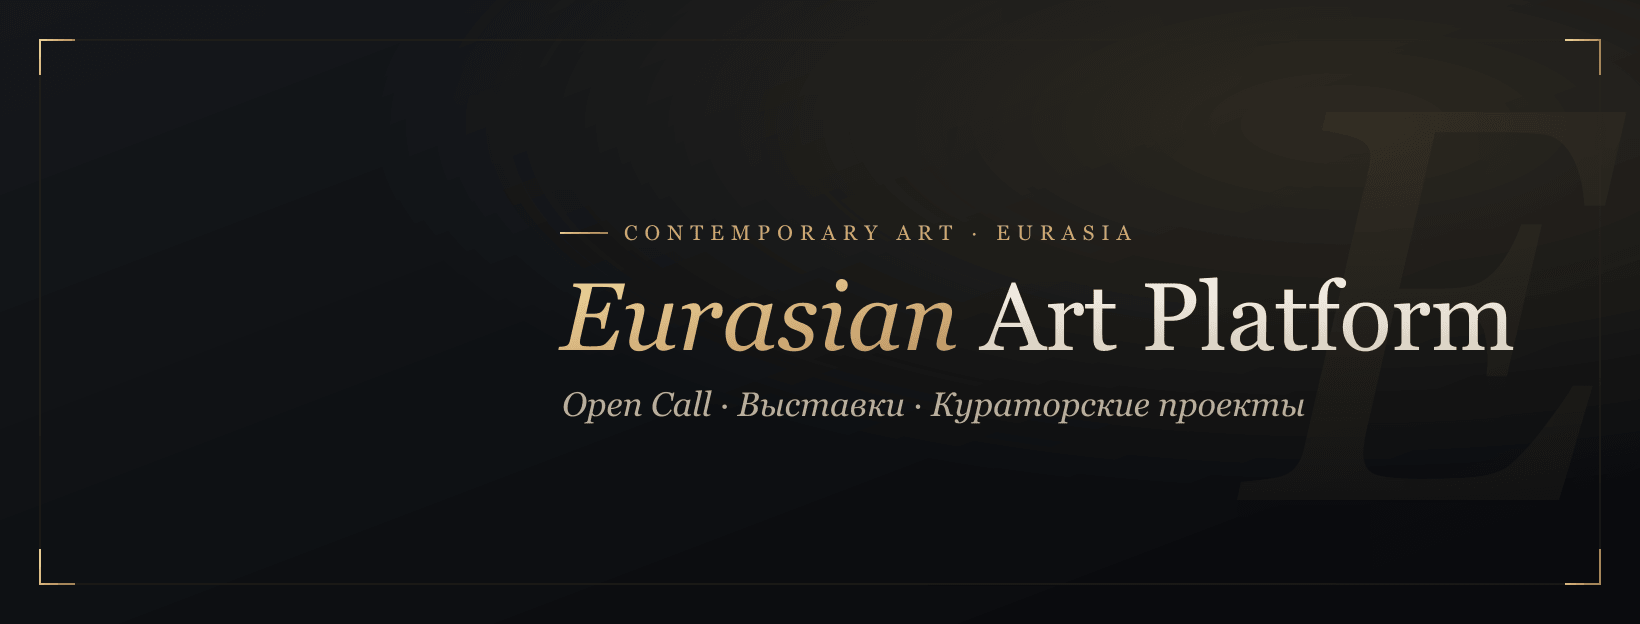
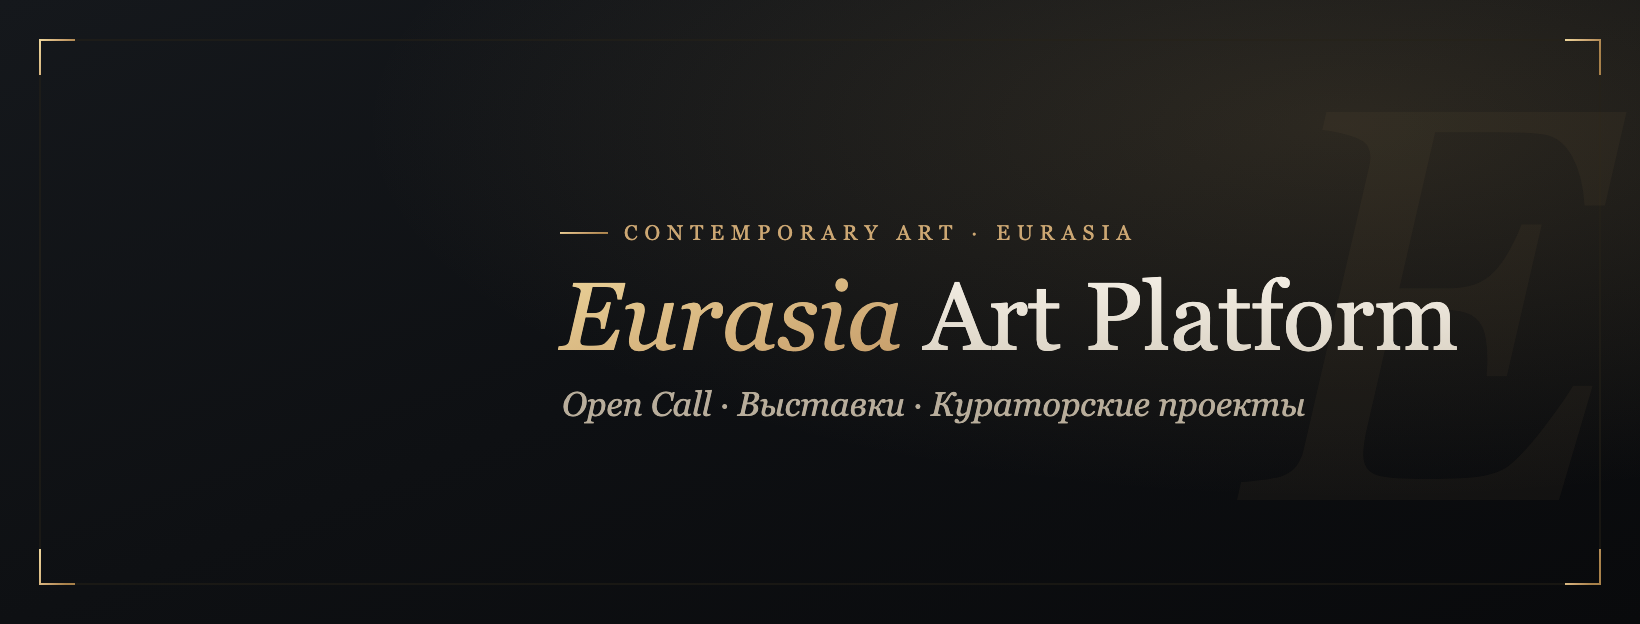
chore(brand): regenerate raster brand assets with the Eurasia name
The SVG sources were renamed but og-image.png, brand/cover.png and
brand/profile.png are committed rasters, so link previews and social
profiles still showed "Eurasian". Re-rendered from the updated SVGs at
their original dimensions and bumped the og:image cache-buster to v=3 so
scrapers refetch the card.

diff --git a/index.html b/index.html
@@ -17,12 +17,12 @@
     <meta property="og:description" content="Международный кураторский open call для современных художников Евразии." />
     <meta property="og:type" content="website" />
     <meta property="og:url" content="https://eurasiaartplatform.com/" />
-    <meta property="og:image" content="https://eurasiaartplatform.com/og-image.png?v=2" />
+    <meta property="og:image" content="https://eurasiaartplatform.com/og-image.png?v=3" />
     <meta property="og:image:width" content="1200" />
     <meta property="og:image:height" content="630" />
     <meta property="og:image:alt" content="Eurasia Art Platform — Open Call" />
     <meta name="twitter:card" content="summary_large_image" />
-    <meta name="twitter:image" content="https://eurasiaartplatform.com/og-image.png?v=2" />
+    <meta name="twitter:image" content="https://eurasiaartplatform.com/og-image.png?v=3" />
   </head>
   <body>
     <div id="root"></div>
